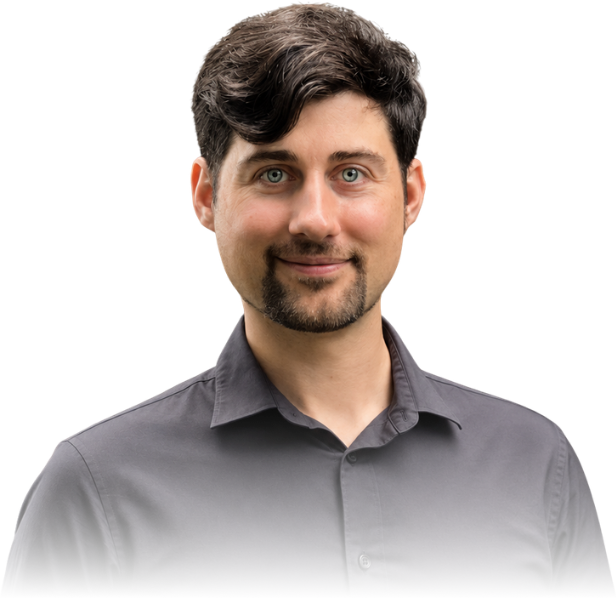
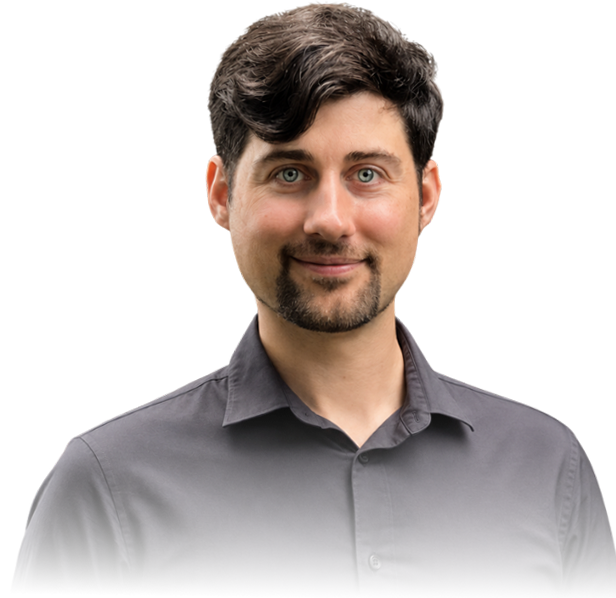
V012
- upgrades

diff --git a/index.html b/index.html
@@ -477,7 +477,18 @@
     /* shared on .hero so BOTH the grid (.wrap) and the backdrop (.hero__stage,
        a sibling of .wrap) can read the column gap — the halo math below needs
        it to locate the portrait column's center. */
-    .hero { --hero-col-gap: clamp(2rem, 4vw, 4rem); }
+    .hero {
+      --hero-col-gap: clamp(2rem, 4vw, 4rem);
+      /* HEIGHT POLICY (desktop): the old `min-height: clamp(620px, 92vh, 920px)`
+         reserved up to 920px and, with `align-items:center`, floated the content
+         in the middle — dumping a big empty band below the CTA buttons on tall
+         windows. Now the hero is content-driven: a modest min-height floor plus
+         TOP alignment, so the height tracks the text column and the next section
+         follows right after it. The portrait (below) is taken out of row sizing
+         so it can't re-inflate this. */
+      min-height: clamp(480px, 62vh, 620px);
+      align-items: start;
+    }
 
     /* the hero content box becomes the two-column grid */
     .hero .wrap {
@@ -502,15 +513,29 @@
     .hero .wrap > .hero__portrait {
       grid-column: 2;
       grid-row: 2;                  /* row 1 is the eyebrow; row 2 is the text */
-      position: static;
+      /* ABSOLUTE inside the grid: because `.hero .wrap` is `position:relative`,
+         an absolutely-positioned grid item is laid out against its GRID AREA
+         (column 2 / row 2) — but it NO LONGER contributes to track sizing. So a
+         tall portrait can't stretch row 2 anymore; the row (and therefore the
+         hero height) now tracks the left text column. The figure still lives in
+         the right column and stays top-synced with the headline. */
+      position: absolute;
       align-self: start;            /* top-aligned with the headline */
       justify-self: start;          /* anchor left — never cross into the text */
-      bottom: auto; right: auto;
-      width: auto;                  /* keep proportions → no crop */
-      height: 67%;                  /* ~33% smaller than fully filling the column */
+      top: 0; bottom: auto; right: auto; left: 0;
+      /* Aspect ratio is driven by height alone: `width:auto` lets the browser
+         derive width from the image's intrinsic 616×598, so it NEVER distorts.
+         Do NOT cap the width here — `max-width` on an <img> with a fixed height
+         squishes the picture horizontally instead of scaling it down. */
+      width: auto;
+      /* Height is now a fixed-ish clamp (not a % of the row, which no longer
+         grows). Tuned to fit the slimmer hero: head near the headline, torso
+         fade landing around the CTA row. Overflow on `.hero` clips any spill. */
+      height: clamp(420px, 52vh, 560px);
       min-width: 0;
       min-height: 0;
-      max-width: none;
+      max-width: none;              /* let the true aspect ratio win — see above */
+      object-fit: contain;          /* belt-and-suspenders: never stretch */
       /* No CSS mask — the fade is baked into the PNG. */
     }
 
@@ -927,6 +952,15 @@
       --fig-h: calc(var(--fig-w) * 0.971);
     }
     .hero__sub, .hero__note { max-width: 100%; }
+    /* keep all three hero CTAs (View Work / About / Get in Touch) on ONE row on
+       phones — same approach as the contact row below: nowrap + equal-width
+       flex items that can shrink (min-width:0), with trimmed padding/text. */
+    .hero__cta { flex-wrap: nowrap; gap: .55rem; width: 100%; }
+    .hero__cta .btn {
+      flex: 1 1 0; min-width: 0; justify-content: center;
+      padding: .8rem .6rem; gap: .4rem;
+      font-size: .9rem; white-space: nowrap;
+    }
     /* portrait flows at the top, centered; the fade is baked into the PNG, so
        the text can still rise into the faded lower portion (merged composition)
        with no CSS mask. */
@@ -1000,6 +1034,11 @@
     .contact__row { gap: .4rem; }
     .contact__row .contact-btn { padding: .75rem .35rem; font-size: .82rem; gap: .32rem; }
     .contact__row .contact-btn svg { width: 16px; height: 16px; }
+
+    /* same tightening for the hero CTAs on very narrow phones */
+    .hero__cta { gap: .4rem; }
+    .hero__cta .btn { padding: .72rem .4rem; font-size: .8rem; gap: .3rem; }
+    .hero__cta .btn .arrow { display: none; }
   }
   </style>
 </head>
@@ -1093,6 +1132,7 @@
           <!-- /Hero note -->
           <div class="hero__cta">
             <a class="btn" href="#work">View Work <span class="arrow" aria-hidden="true">↓</span></a>
+            <a class="btn btn--ghost" href="#about">About</a>
             <a class="btn btn--ghost" href="#contact">Get in Touch</a>
           </div>
         </div>
@@ -1104,7 +1144,7 @@
       <div class="wrap">
         <div class="section-head reveal">
           <span class="eyebrow">Selected Work</span>
-          <h2>Ambitious systems shipped by small, senior teams.</h2>
+          <h2>Innovative systems shipped by leading agile teams.</h2>
           <p>Spanning space-domain awareness, industrial logistics, educational simulation, indie game systems, and AI-augmented tooling.</p>
         </div>
 
@@ -1333,14 +1373,17 @@
 
     /* ---- header scrolled state + scroll progress bar ----
        The header switches to its `scrolled` look (black bar + portrait + compact
-       name) once ~50% of the hero portrait has scrolled out of view. We prefer
-       an IntersectionObserver (cheap, no per-frame math); a getBoundingClientRect
-       check in onScroll covers browsers without it. */
+       name) once enough of the hero portrait has scrolled up under the header.
+       We measure that coverage VERTICALLY only (see portraitShownRatio): the
+       desktop portrait is scaled to its true aspect ratio and intentionally
+       bleeds off the right edge, so an IntersectionObserver's 2D area ratio would
+       read below 100% even at the very top and wrongly flip the header dark
+       before any scrolling. The progress bar already runs every scroll, so doing
+       this in the same rAF-throttled handler costs nothing extra. */
     var header = doc.getElementById("header");
     var progress = doc.getElementById("progress");
     var heroPortrait = doc.querySelector(".hero__portrait");
     var ticking = false;
-    var portraitIO = null;
 
     function setScrolled(on) { header.classList.toggle("scrolled", on); }
 
@@ -1349,35 +1392,33 @@
        to leave. Mobile triggers when ~25% has scrolled away. */
     function revealThreshold() { return window.innerWidth > 880 ? 0.9 : 0.75; }
 
-    if (heroPortrait && "IntersectionObserver" in window) {
-      var hh = Math.round(header.offsetHeight || 56);
-      portraitIO = new IntersectionObserver(function (entries) {
-        setScrolled(entries[entries.length - 1].intersectionRatio < revealThreshold());
-      }, { threshold: [0, 0.25, 0.5, 0.75, 0.9, 1], rootMargin: "-" + hh + "px 0px 0px 0px" });
-      portraitIO.observe(heroPortrait);
+    /* Fraction of the portrait still visible below the header, VERTICAL only —
+       immune to the portrait bleeding off the right edge. null if no portrait. */
+    function portraitShownRatio() {
+      if (!heroPortrait) return null;
+      var r = heroPortrait.getBoundingClientRect();
+      if (r.height <= 0) return null;
+      var top = header.offsetHeight || 56;
+      var shown = Math.min(r.bottom, window.innerHeight) - Math.max(r.top, top);
+      return shown / r.height;
     }
 
     function onScroll() {
       var y = window.scrollY || doc.documentElement.scrollTop;
-      if (!portraitIO) {
-        // fallback: how much of the hero portrait still shows below the header
-        if (heroPortrait) {
-          var r = heroPortrait.getBoundingClientRect();
-          var top = header.offsetHeight || 56;
-          var shown = Math.min(r.bottom, window.innerHeight) - Math.max(r.top, top);
-          setScrolled(r.height > 0 ? (shown / r.height) < revealThreshold() : y > 24);
-        } else {
-          setScrolled(y > 24);
-        }
-      }
+      var ratio = portraitShownRatio();
+      setScrolled(ratio === null ? y > 24 : ratio < revealThreshold());
       var h = doc.documentElement.scrollHeight - window.innerHeight;
       var p = h > 0 ? y / h : 0;
       progress.style.transform = "scaleX(" + p + ")";
       ticking = false;
     }
-    window.addEventListener("scroll", function () {
+    function requestTick() {
       if (!ticking) { window.requestAnimationFrame(onScroll); ticking = true; }
-    }, { passive: true });
+    }
+    window.addEventListener("scroll", requestTick, { passive: true });
+    /* re-evaluate on resize: the desktop/mobile threshold and the portrait's
+       geometry both change with viewport width (IO used to handle this for us). */
+    window.addEventListener("resize", requestTick, { passive: true });
     onScroll();
 
     /* ---- mobile nav toggle ---- */